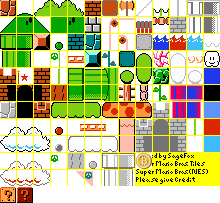
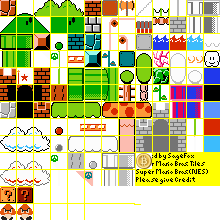
moveable enemy

diff --git a/js/game.js b/js/game.js
@@ -12,7 +12,7 @@ var current_level;
 var score = 0
 
 // position displayed level
-var scroll_x = 120;
+var scroll_x = 0;
 // scroll position at the beginning of the game loop
 var scroll_x_start = 0;
 // 5 free lines on top, 13 lines of level content
@@ -33,7 +33,7 @@ var speed = {
         speed_limit_x:10,
         speed_limit_y:25
     },
-    fps: 30
+    fps:30
 }
 
 // size details about various aspects of the game
@@ -58,11 +58,23 @@ String.prototype.replaceAt = function (index, char) {
     return this.substr(0, index) + char + this.substr(index + char.length);
 }
 
-function replaceLevelSprite(x, y, item) {
+function replaceLevelSpriteXY(x, y, item) {
     line_nr = y / size.tile.target.h - line_offset_y
-    current_level.level[line_nr] = current_level.level[line_nr].replaceAt(x / size.tile.target.w, item);
+    replaceLevelSprite(x / size.tile.target.w, line_nr, item)
 }
 
+function replaceLevelSprite(pos, line, item) {
+    current_level.level[line] = current_level.level[line].replaceAt(pos, item);
+}
+
+function getLevelSpriteXY(x, y) {
+    line_nr = y / size.tile.target.h - line_offset_y;
+    return getLevelSprite(x / size.tile.target.w, line_nr);
+}
+
+function getLevelSprite(pos, line) {
+    return current_level.level[line].charAt(pos);
+}
 
 function drawLevel() {
 
@@ -218,6 +230,15 @@ function drawLevel() {
                         object.sx = 13;
                         object.sy = 4;
                         break;
+                    case 'p':
+                        object.sx = 0;
+                        object.sy = 12;
+                        object.deadly = true;
+                        object.type = "enemy_mushroom"
+                        object.speed = 4
+                        items.push(object);
+                        replaceLevelSprite(index_x, index_y - line_offset_y, " ");
+                        break;
                     default:
                 }
                 if (object.sx != null && object.sy != null) {
@@ -281,6 +302,10 @@ function updateCharacters() {
             actor.pos.x = current_level.width - size.tile.target.w;
         }
 
+        // add visible items + actors to collision check
+        // todo: only add visible items
+        collisionMap = collisionMap.concat(items);
+
         collisionMap.forEach(function (object) {
 
             var collides = checkCollision(actor, object);
@@ -288,7 +313,7 @@ function updateCharacters() {
             // special actions on collisions
             if (collides.top) {
                 if (object.type == 'block_coin') {
-                    replaceLevelSprite(object.x, object.y, "ß");
+                    replaceLevelSpriteXY(object.x, object.y, "ß");
                     items.push({ sx:8, sy:9, x:object.x, y:(object.y - size.tile.target.h), deadly:false, type:'coin' });
                 }
             }
@@ -397,14 +422,36 @@ function animate_actor(actor) {
     }
 }
 
+// update special items, enemies
 function updateElements() {
+    items.forEach(function (item) {
+
+        if (item.type == 'enemy_mushroom') {
+            // animate
+            if (ticks % 4 == 0) {
+                // animate
+                if (item.sx == 0) {
+                    item.sx = 1;
+                } else {
+                    item.sx = 0;
+                }
+            }
+            // move
+            if (item.speed > 0) {
+                if (getLevelSpriteXY(item.x + size.tile.target.w, item.y) != " ") {
+                    item.speed *= -1
+                }
+            } else {
+                if (getLevelSpriteXY(item.x, item.y) != " ") {
+                    item.speed *= -1
+                }
+            }
+            item.x += item.speed
+        }
+    })
 
 }
 
-function updateCollisionMap() {
-    // add items to collision check, todo: only add visible items
-    collisionMap = collisionMap.concat(items);
-}
 
 function drawControls() {
     var actor = actors[0];
@@ -519,9 +566,6 @@ function gameLoop() {
 
     drawLevel();
 
-    // add visible items + actors to collision map
-    updateCollisionMap();
-
     updateCharacters();
     updateElements();
 
@@ -546,7 +590,7 @@ function initGame() {
     enemyMap.src = 'images/smb_enemies_sheet.png';
 
     player = {
-        pos:{x:25 * size.tile.target.w, y:10 * size.tile.target.h},
+        pos:{x:5 * size.tile.target.w, y:10 * size.tile.target.h},
         sprite:{x:0, y:16},
         size:{w:16, h:16},
         speed:{x:0, y:0}

diff --git a/js/levels.js b/js/levels.js
@@ -49,7 +49,7 @@ var levels = [
             "                ?     #?#?#                       qw          qw                     #?#                      #        #k     ?  ?  ?      #           ##            ",
             "    ^                                     qw      as    ^     as                                                 ^                                           ",
             "   /ü`            ^              qw       as      as   /ü`    as        ^                                       /ü`                    ^                       ",
-            "  /ügü`      {=} /ü`             as       as  {=} as  /ügü`   as  {==} /ü`      {=}                  {=}       /ügü`           {==}   /ü`     /`                          ",
+            "  /ügü`      {=} /ü`             as    p  as  {=} as  /ügü`   as  {==} /ü`      {=}                  {=}       /ügü`           {==}   /ü`     /`                          ",
             "xxxxxxxxxxxxxxxxxxxxxxxxxxxxxxxxxxxxxxxxxxxxxxxxxxxxxxxxxxxxxxxxxxxxxxxxxxxxxhhxxxxxxxxxxxxxxxxxhhhhhxxxxxxxxxxxxxxxxxxxxxxxxxxxxxxxxxxxxxxxxxxxxxxxxxxxxxxxxx                          "
         ]
     },
